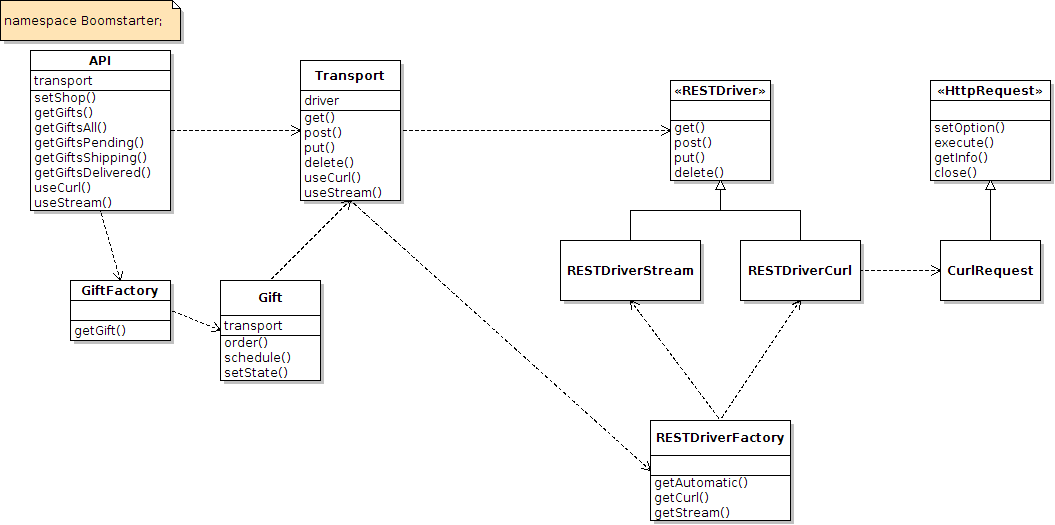
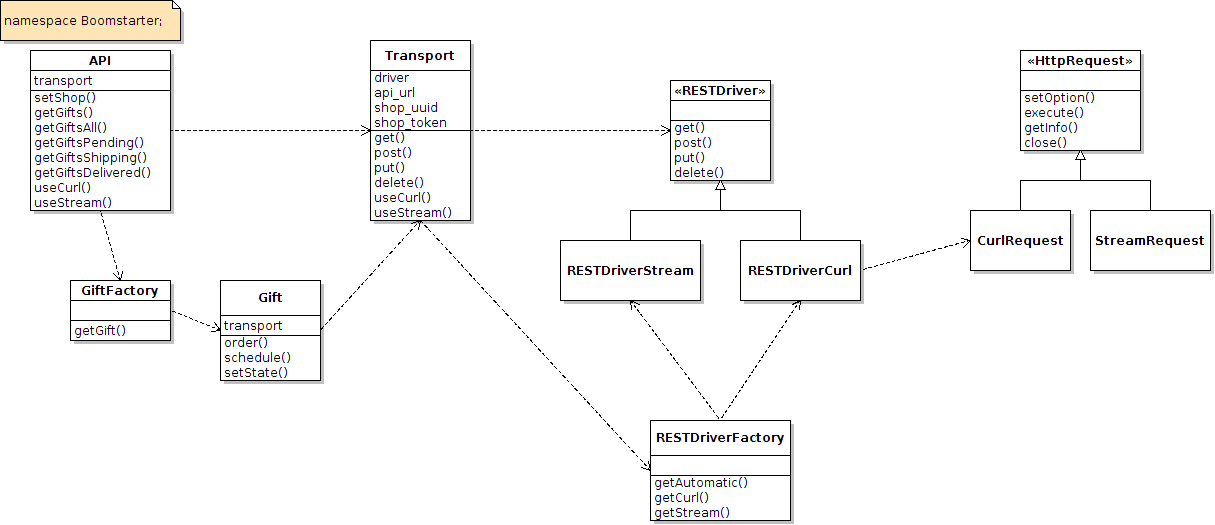
+ тесты транспорта

diff --git a/Tests/TransportTest.php b/Tests/TransportTest.php
@@ -9,6 +9,41 @@ require_once __DIR__ . '/../Boomstarter/API.php';
 
 class TransportTest extends PHPUnit_Framework_TestCase
 {
+    private function getMockedTransport($expected)
+    {
+        // override RESTDriverCurl::get() ::post() ::put() ::delete()
+        $driver = $this->getMockBuilder('Boomstarter\RESTDriverCurl')
+            ->setMethods(array('get', 'post', 'put', 'delete'))
+            ->getMock();
+
+        $driver->expects($this->any())
+            ->method('get')
+            ->will($this->returnValue($expected));
+
+        $driver->expects($this->any())
+            ->method('post')
+            ->will($this->returnValue($expected));
+
+        $driver->expects($this->any())
+            ->method('put')
+            ->will($this->returnValue($expected));
+
+        $driver->expects($this->any())
+            ->method('delete')
+            ->will($this->returnValue($expected));
+
+        // override Transport::getDriver()
+        $transport = $this->getMockBuilder('Boomstarter\Transport')
+            ->setMethods(array('getDriver'))
+            ->getMock();
+
+        $transport->expects($this->any())
+            ->method('getDriver')
+            ->will($this->returnValue($driver));
+
+        return $transport;
+    }
+
     public function testSetters()
     {
         $transport = new Boomstarter\Transport();
@@ -23,11 +58,13 @@ class TransportTest extends PHPUnit_Framework_TestCase
         $this->assertEquals($transport, $result);
     }
 
-    public function _testGet()
+    public function testGet()
     {
-        $transport = new Boomstarter\Transport();
+        $expected = '{"mocked": 1}';
 
-        $url = 'https://boomstarter.ru/api/v1.1/partners/gifts';
+        $transport = $this->getMockedTransport($expected);
+
+        $url = '/gifts';
 
         $data = array(
             'shop_uuid' => 'fcfdfc62-7c05-4642-8d43-d26b0c05b9e1',
@@ -39,5 +76,93 @@ class TransportTest extends PHPUnit_Framework_TestCase
         $result = $transport->get($url, $data);
 
         $this->assertTrue(is_array($result));
+        $this->assertArrayHasKey('mocked', $result);
+    }
+
+    public function testPost()
+    {
+        $expected = '{"mocked": 1}';
+
+        $transport = $this->getMockedTransport($expected);
+
+        $url = '/gifts';
+
+        $data = array(
+            'shop_uuid' => 'fcfdfc62-7c05-4642-8d43-d26b0c05b9e1',
+            'shop_token' => 'c50267d4-d08a-4fff-ad2b-87746088188a',
+            'limit' => 100,
+            'offset' => 0
+        );
+
+        $result = $transport->post($url, $data);
+
+        $this->assertTrue(is_array($result));
+        $this->assertArrayHasKey('mocked', $result);
+    }
+
+    public function testPut()
+    {
+        $expected = '{"mocked": 1}';
+
+        $transport = $this->getMockedTransport($expected);
+
+        $url = '/gifts';
+
+        $data = array(
+            'shop_uuid' => 'fcfdfc62-7c05-4642-8d43-d26b0c05b9e1',
+            'shop_token' => 'c50267d4-d08a-4fff-ad2b-87746088188a',
+            'limit' => 100,
+            'offset' => 0
+        );
+
+        $result = $transport->put($url, $data);
+
+        $this->assertTrue(is_array($result));
+        $this->assertArrayHasKey('mocked', $result);
+    }
+
+    public function testDelete()
+    {
+        $expected = '{"mocked": 1}';
+
+        $transport = $this->getMockedTransport($expected);
+
+        $url = '/gifts';
+
+        $data = array(
+            'shop_uuid' => 'fcfdfc62-7c05-4642-8d43-d26b0c05b9e1',
+            'shop_token' => 'c50267d4-d08a-4fff-ad2b-87746088188a',
+            'limit' => 100,
+            'offset' => 0
+        );
+
+        $result = $transport->delete($url, $data);
+
+        $this->assertTrue(is_array($result));
+        $this->assertArrayHasKey('mocked', $result);
+    }
+
+    public function testUseCurl()
+    {
+        $transport = new Boomstarter\Transport();
+
+        $result = $transport->useCurl();
+
+        $driver = $transport->getDriver();
+
+        $this->assertEquals($transport, $result);
+        $this->assertInstanceOf('Boomstarter\RESTDriverCurl', $driver);
+    }
+
+    public function testUseStream()
+    {
+        $transport = new Boomstarter\Transport();
+
+        $result = $transport->useStream();
+
+        $driver = $transport->getDriver();
+
+        $this->assertEquals($transport, $result);
+        $this->assertInstanceOf('Boomstarter\RESTDriverStream', $driver);
     }
 }

diff --git a/Boomstarter/API.php b/Boomstarter/API.php
@@ -350,7 +350,7 @@ class Transport
     /* @var string */
     private $shop_token = NULL;
     /* @var string */
-    private $api_url = 'https://boomstarter.ru';
+    private $api_url = 'https://boomstarter.ru/api/v1.1/partners';
 
     function __construct()
     {
@@ -380,7 +380,7 @@ class Transport
         $data["shop_uuid"] = $this->shop_uuid;
         $data["shop_token"] = $this->shop_token;
 
-        $response = $this->driver->get($this->api_url . $url, $data);
+        $response = $this->getDriver()->get($this->api_url . $url, $data);
         $result = json_decode($response, TRUE);
 
         return $result;
@@ -391,7 +391,7 @@ class Transport
         $data["shop_uuid"] = $this->shop_uuid;
         $data["shop_token"] = $this->shop_token;
 
-        $response = $this->driver->post($this->api_url . $url, $data);
+        $response = $this->getDriver()->post($this->api_url . $url, $data);
         $result = json_decode($response, TRUE);
 
         return $result;
@@ -402,7 +402,7 @@ class Transport
         $data["shop_uuid"] = $this->shop_uuid;
         $data["shop_token"] = $this->shop_token;
 
-        $response = $this->driver->put($this->api_url . $url, $data);
+        $response = $this->getDriver()->put($this->api_url . $url, $data);
         $result = json_decode($response, TRUE);
 
         return $result;
@@ -413,7 +413,7 @@ class Transport
         $data["shop_uuid"] = $this->shop_uuid;
         $data["shop_token"] = $this->shop_token;
 
-        $response = $this->driver->delete($this->api_url . $url, $data);
+        $response = $this->getDriver()->delete($this->api_url . $url, $data);
         $result = json_decode($response, TRUE);
 
         return $result;
@@ -429,6 +429,11 @@ class Transport
     {
         $this->driver = RESTDriverFactory::getStream();
         return $this;
+    }
+
+    public function getDriver()
+    {
+        return $this->driver;
     }
 }
 
@@ -527,9 +532,9 @@ class API
 
         // url
         if ($status) {
-            $url = '/api/v1.1/partners/gifts' . '/' . $status;
+            $url = '/gifts' . '/' . $status;
         } else {
-            $url = '/api/v1.1/partners/gifts';
+            $url = '/gifts';
         }
 
         // request
@@ -638,7 +643,7 @@ class Gift
 
     public function order($order_id)
     {
-        $url = "/api/v1.1/partners/gifts/{$this->uuid}/order";
+        $url = "/gifts/{$this->uuid}/order";
 
         $data = array(
             "order_id" => $order_id
@@ -651,7 +656,7 @@ class Gift
 
     public function schedule($delivery_date)
     {
-        $url = "/api/v1.1/partners/gifts/{$this->uuid}/schedule";
+        $url = "/gifts/{$this->uuid}/schedule";
 
         $data = array(
             "delivery_date" => $delivery_date
@@ -664,7 +669,7 @@ class Gift
 
     public function setState($delivery_state)
     {
-        $url = "/api/v1.1/partners/gifts/{$this->uuid}/delivery_state";
+        $url = "/gifts/{$this->uuid}/delivery_state";
 
         $data = array(
             "delivery_state" => $delivery_state
@@ -680,7 +685,5 @@ class Gift
 // TODO что с Gift::owner
 // TODO что с Gift::location:country
 // TODO что с Gift::location:city
-// TODO тесты драйверов
 // TODO тесты транспорта
-// TODO тесты mock CurlRequest, StreamRequest
 // TODO как отдавать _metadata.total_count
